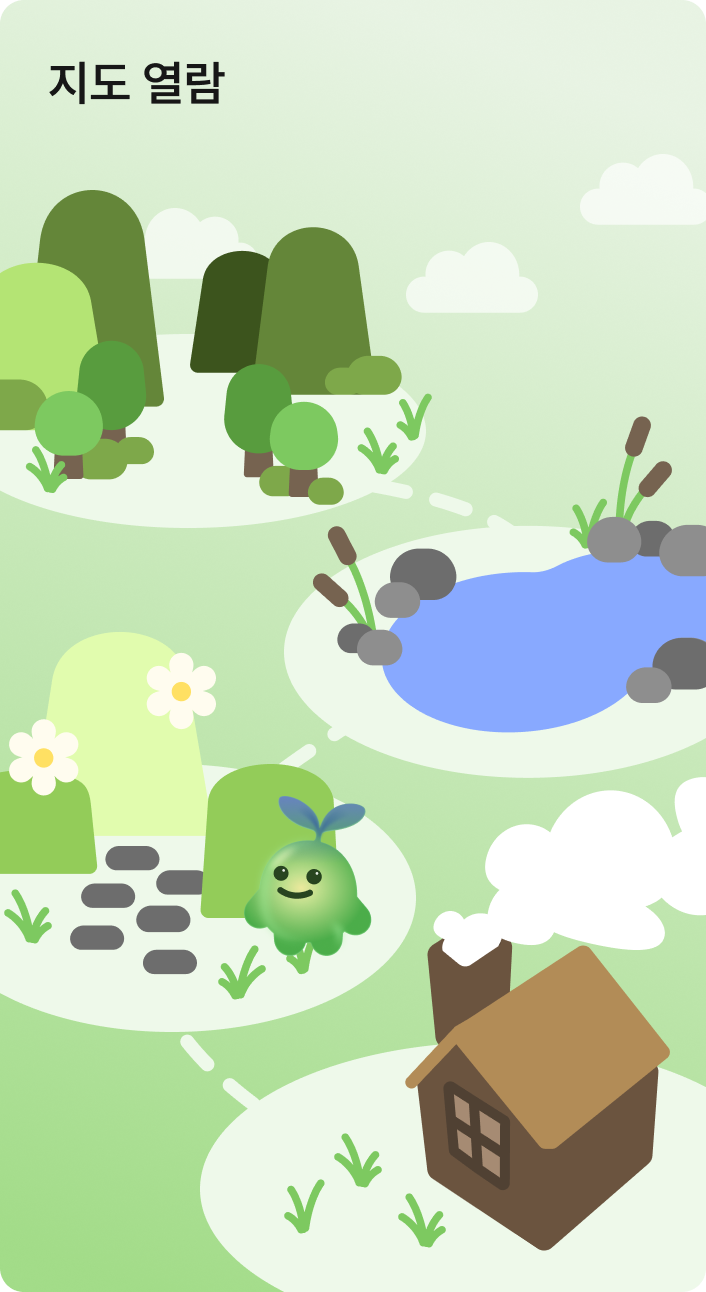
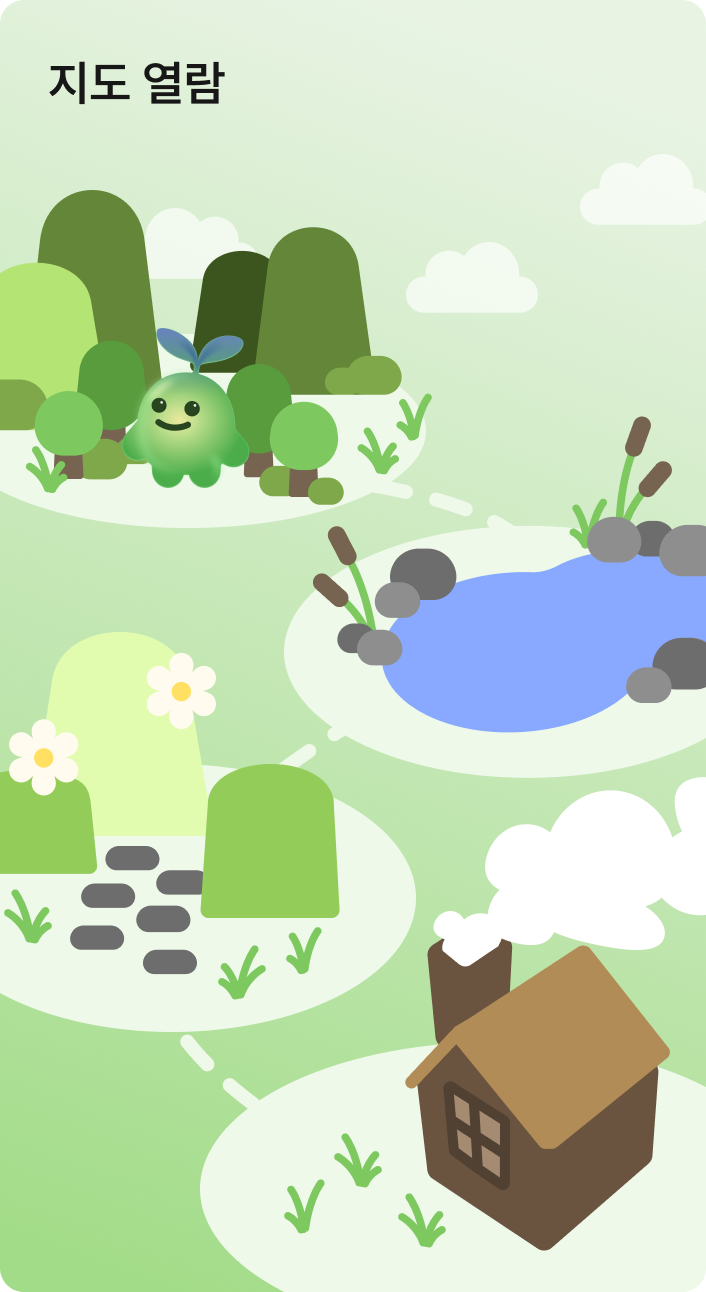
hotpix : 지도 파일명 수정

Changed region(s): [[0.1558, 0.2477, 0.3739, 0.4025], [0.3428, 0.6192, 0.5297, 0.743]]

diff --git a/src/components/map/Modal.tsx b/src/components/map/Modal.tsx
@@ -3,9 +3,9 @@ import { useEffect } from "react";
 import { createPortal } from "react-dom";
 
 import Map1 from "@/assets/images/map/map1.png";
-import Map4 from "@/assets/images/map/map2.png";
-import Map2 from "@/assets/images/map/map3.png";
-import Map3 from "@/assets/images/map/map4.png";
+import Map2 from "@/assets/images/map/map2.png";
+import Map3 from "@/assets/images/map/map3.png";
+import Map4 from "@/assets/images/map/map4.png";
 
 type Props = {
   isNumber: number; // 1~4